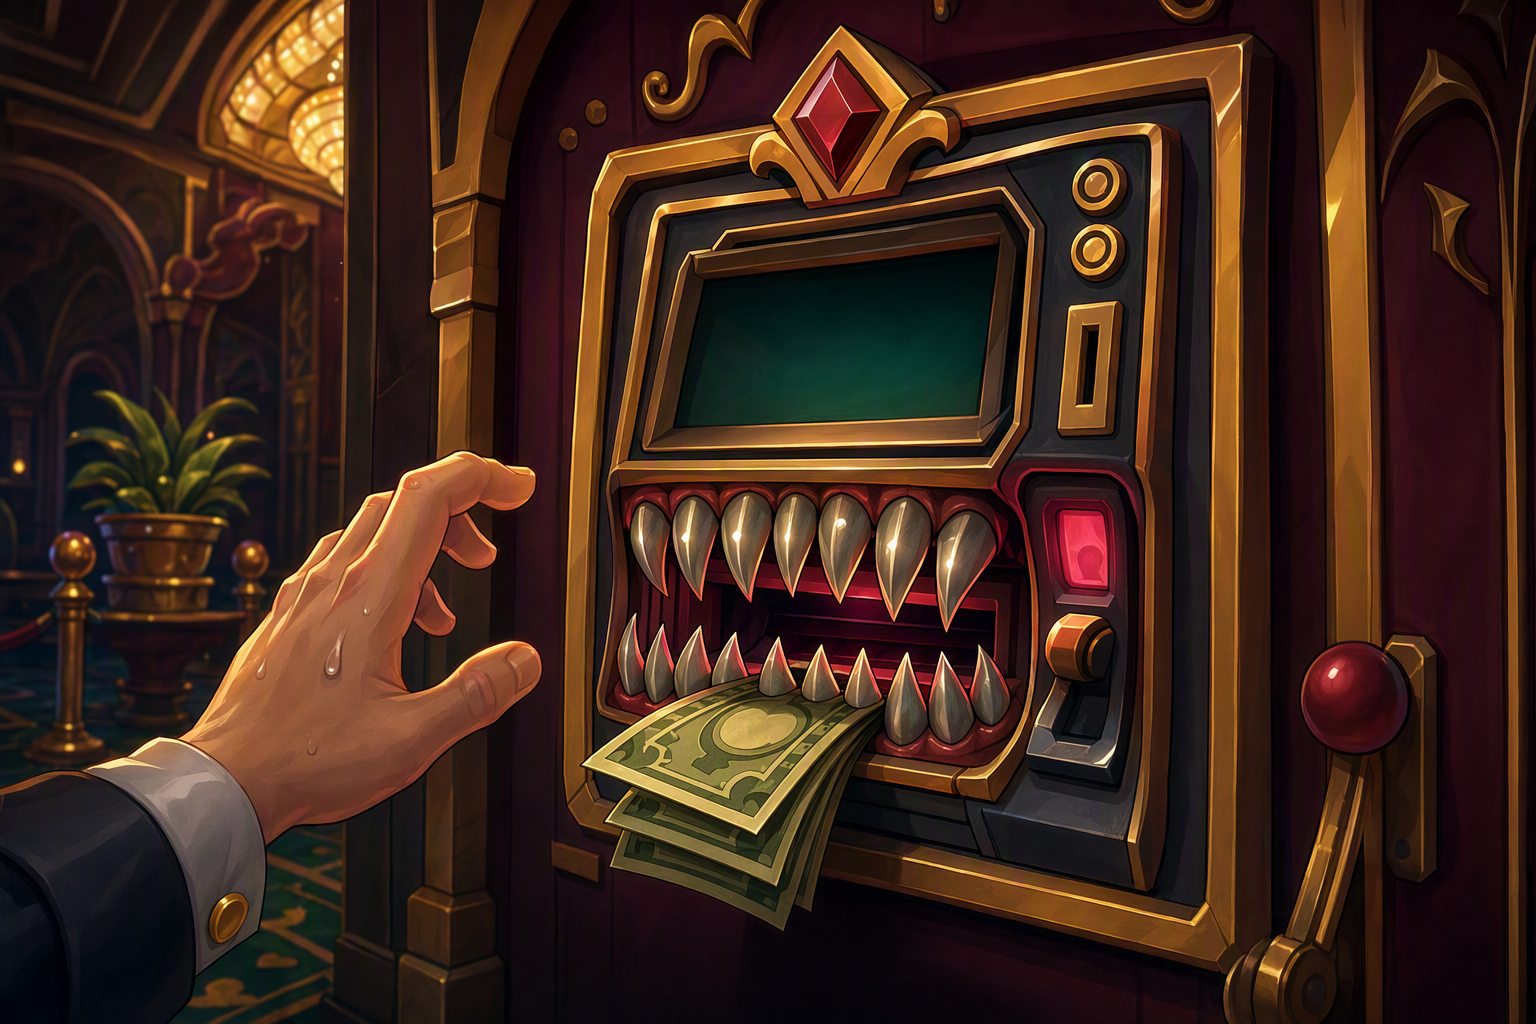
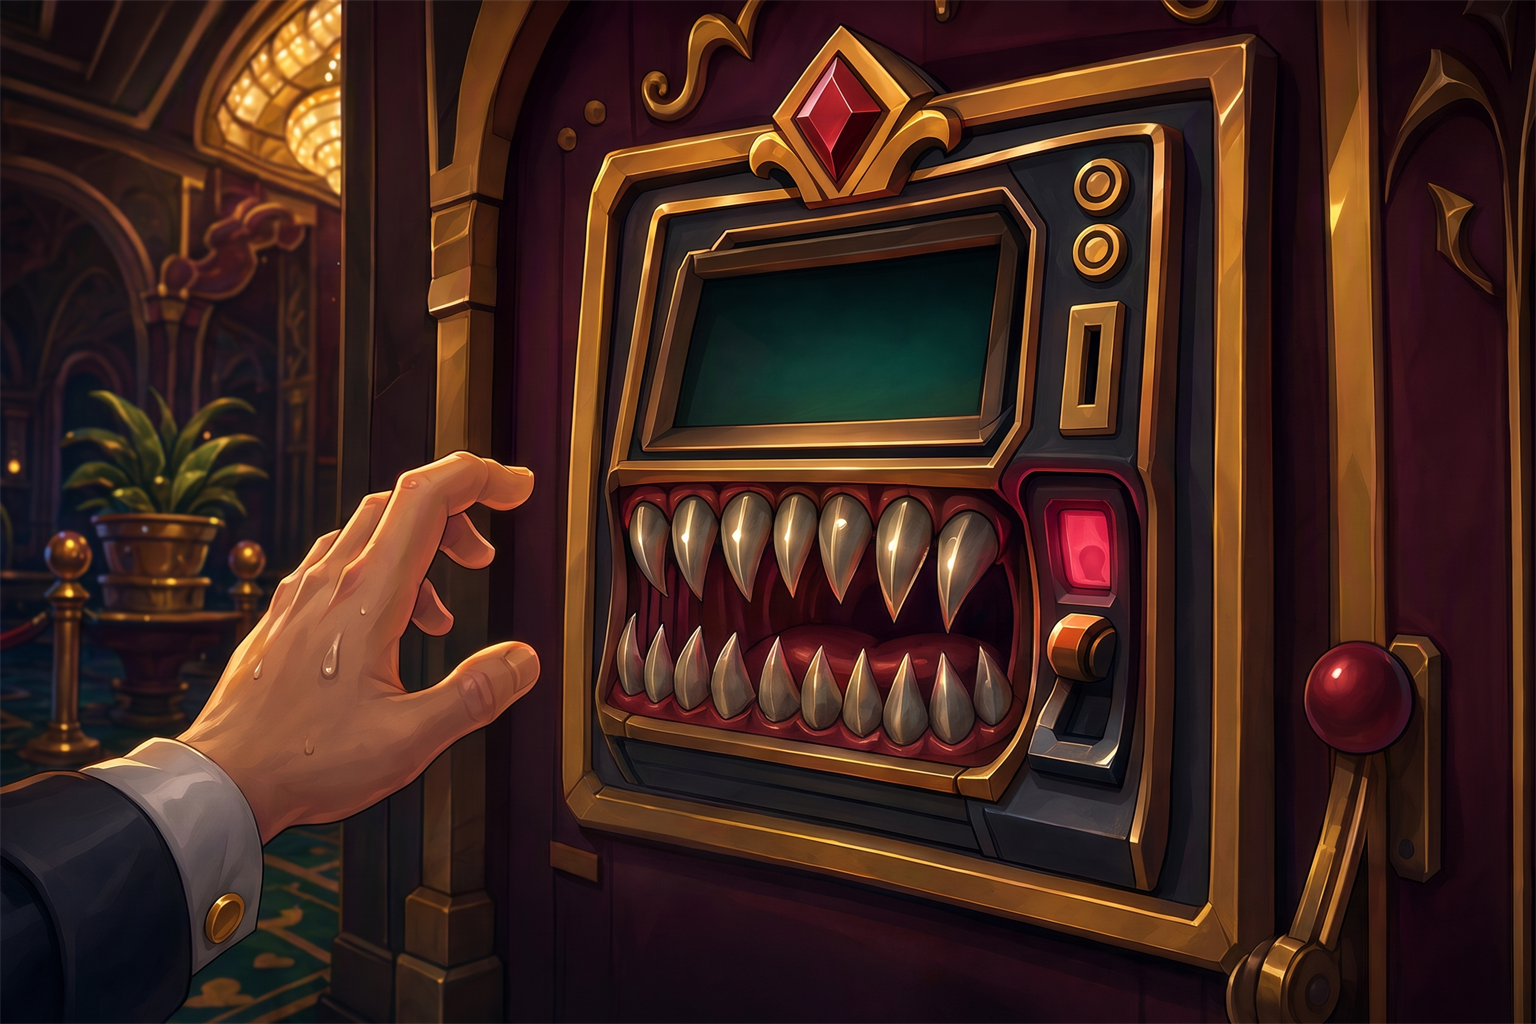
fix: build 1.29 notes (Bad Beat glow, Face Reader at turn start, map header, Risky Dealings art)
- Bad Beat glows while any enemy is marked (it has no Cash In, so the glow check now
  also reads the enemy_marked condition).
- Face Reader procs only at the start of a turn: a new proc_on_play ability field
  (default true), false for Face Reader, so playing it only switches it on. House Edge
  is unchanged. This reverses the 0.113 pay-on-play ruling.
- Map: the Abilities button under "Choose Your Path" is removed, and "Encounter X of
  10" uses the header counters' bold display face.
- Risky Dealings: the banknotes are removed from the machine's mouth.

624 tests pass. Bot: 0/40 wins, avg death 6.5, avg coins 107.

diff --git a/CLAUDE.md b/CLAUDE.md
@@ -698,3 +698,10 @@ The Act I Choice screen is a top-down plan of the casino instead of two cards ov
 - **To go back to the old screen**: set `const USE_FLOORPLAN := false` in `src/ui/map_screen.gd`. Nothing else changes. `git checkout act1-map-ribbon` (a tag on the last commit before the floorplan) restores the exact old tree, and `test_floorplan_map.gd` asserts the old screen's code is still in the file.
 - Review hooks: `CB_DEBUG_MAP="combat,story"` (history, as before) opens the screen standalone; `CB_DEBUG_MAP_PICK=N` takes the Nth open door after 1.5 s, which is how a real run was driven through a click (stop 2 into the casino screen).
 - Not done: a phone layout (the stage just scales), and Act II's floor graph is a separate design (the Act II mock lives in the published "Floorplan Map" artifact).
+
+## Build 1.29 notes (patch 0.132, designer's notes; the floorplan map above is part of this build)
+
+- **Bad Beat glows while an enemy is marked.** `AbilityCard.wants_glow` only knew `cash_in` for Marks, and Bad Beat has no Cash In: its Block hangs on the `enemy_marked` condition. It now reads that condition too (any marked enemy, not only the target).
+- **Face Reader procs only at the start of a turn.** A new ability field, `proc_on_play` (default true, `Defs.AbilityDef`), decides whether a no-trigger passive also pays the turn it is played; Face Reader sets it to false, so playing it only switches it on and the block comes from the NEXT turn start (still once per fight, still per announced hit). This reverses the 0.113 ruling ("two chips that buy nothing read as broken math"). **House Edge reads the same ("at the start of your turn") and still pays on play**: the note named Face Reader only, and `test_build_129.gd` pins that Face Reader is the one passive with the flag. Flipping House Edge is one line of data.
+- **The map**: the "Abilities" button under "Choose Your Path" is gone (the header's Layout button opens the loadout), `FloorplanMap.setup` lost its two arguments, and "ENCOUNTER X OF 10" uses the `SubtitleLabel` face, the Alfa Slab the header's timer and gold use, not the plain body font.
+- **Risky Dealings art**: the banknotes in the machine's mouth are removed (`assets/story/story_risky_dealings.png`, edited with Nano Banana Pro from the old picture, resized back to 1536 x 1024; the old one is in git history).
